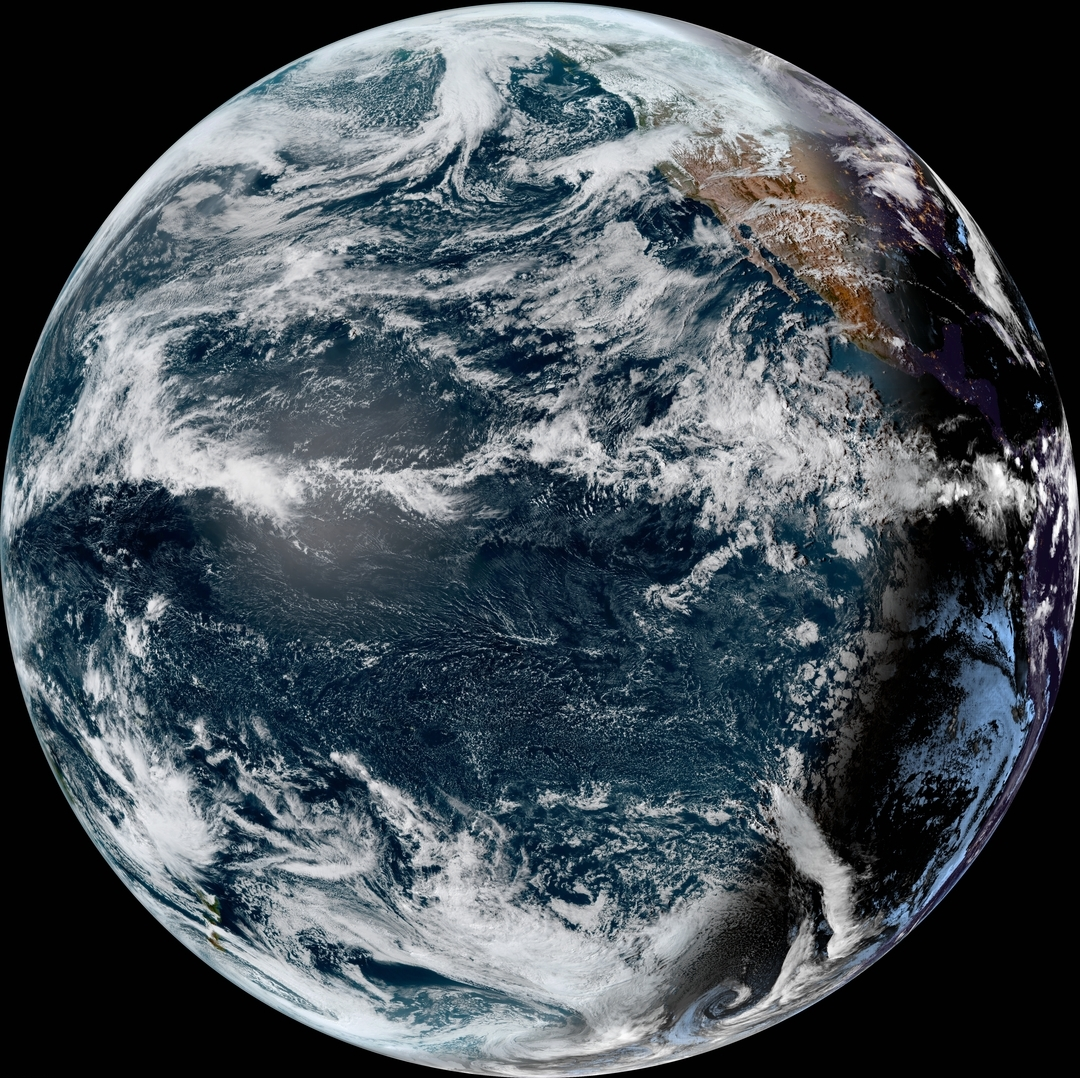
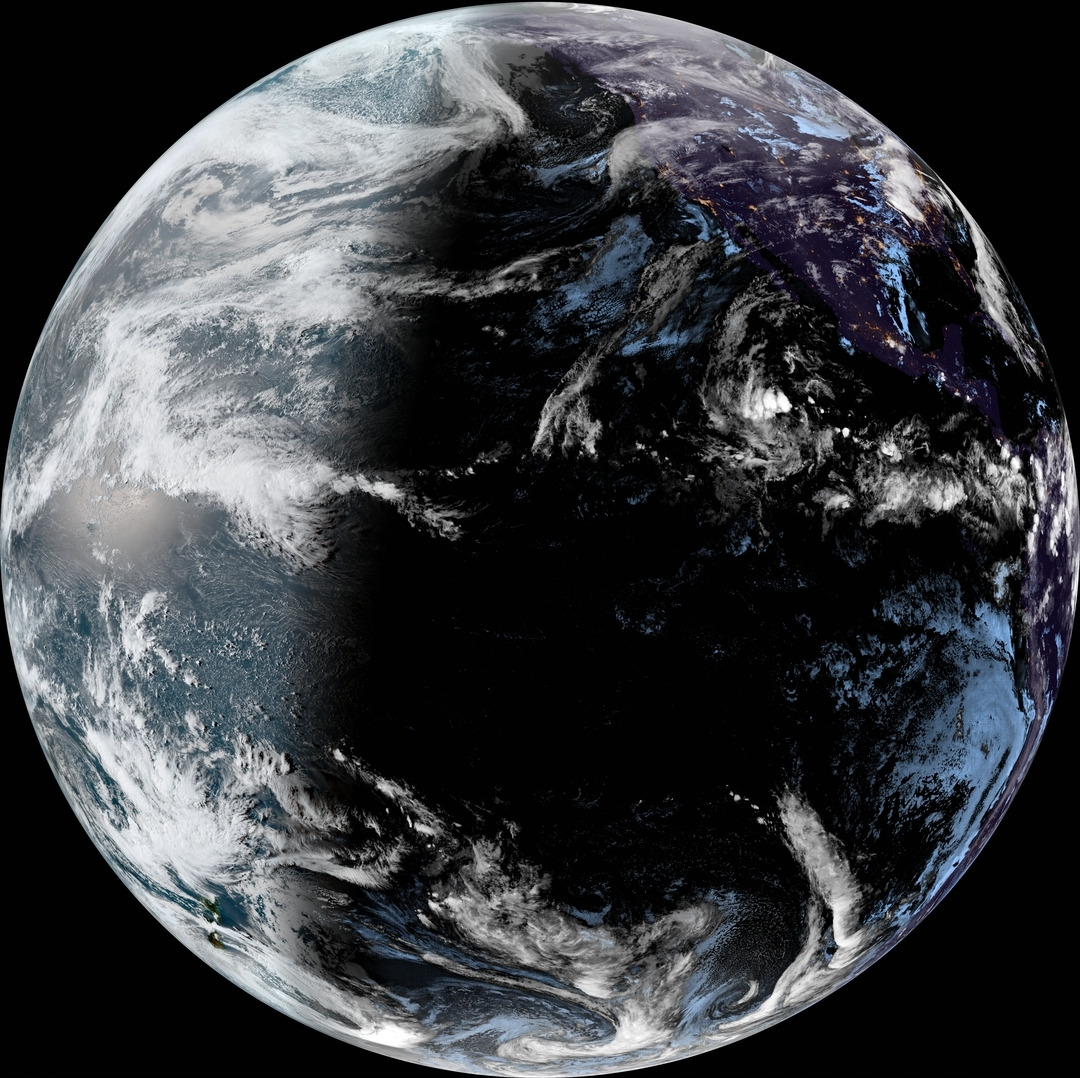
update images

diff --git a/index.html b/index.html
@@ -86,7 +86,7 @@
   </div>
 
   <p class="colophon">
-    Last updated <date datetime="2022-04-16T00:20:50.081Z">2022-04-16T00:20:50.081Z</date>.
+    Last updated <date datetime="2022-04-16T04:06:33.163Z">2022-04-16T04:06:33.163Z</date>.
     Updates every 4 hours.
   </p>
 
